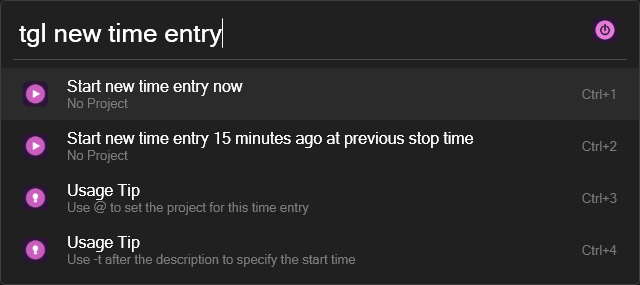
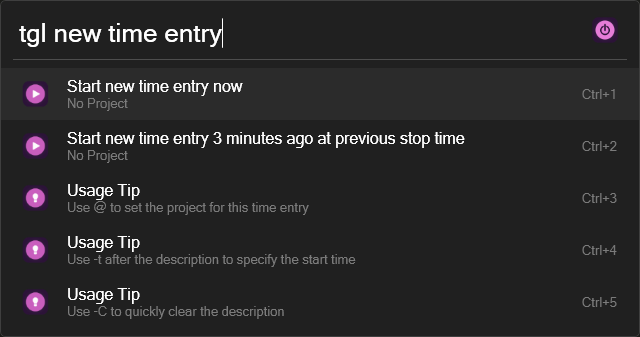
docs(readme): :memo: document `-C` for `start` and `continue` (#97)

diff --git a/README.md b/README.md
@@ -83,9 +83,10 @@ A performant [Toggl Track](https://track.toggl.com/timer) plugin for [Flow Launc
 # Command Reference
 
 > **Note**  
-> This command reference applies to version `v4.0.0-0`.  
+> This command reference applies to version `v4.0.0-1`.  
 
 **Older Versions**:
+- [`v4.0.0-0`](https://github.com/JamesNZL/flow-toggl-plugin/tree/5d54beec1ad4917c2d7f4cae14d23a4fecb6176d#command-reference)
 - [`v3.0.1`](https://github.com/JamesNZL/flow-toggl-plugin/tree/9be3a06727104b3bed38e8011e9e4a8073eec0e0#command-reference)
 - [`v3.0.0`](https://github.com/JamesNZL/flow-toggl-plugin/tree/25611682dd63d0eef2a2e337f94309eca00cb0a4#command-reference) (created command reference)
 
@@ -185,9 +186,10 @@ When followed by anything other than a command name, the list of results will co
 | ------------------------ | ------ | ------------------------------------ | -------------------- |
 | Project Selection Prefix | `@`    | Set a project for the new time entry | `@flow-toggl-plugin` |
 
-| Name      | Flag | Description                                                               | Example          |
-| --------- | ---- | ------------------------------------------------------------------------- | ---------------- |
-| Time Span | `-t` | Offset the starting time of the new time entry with a specified time span | `-t -30 seconds` |
+| Name              | Flag | Description                                                               | Example          |
+| ----------------- | ---- | ------------------------------------------------------------------------- | ---------------- |
+| Time Span         | `-t` | Offset the starting time of the new time entry with a specified time span | `-t -30 seconds` |
+| Clear Description | `-C` | Empty the time entry description from the Flow search bar                 | `-C`             |
 
 | Name                               | Key Modifier | Description                                                                   | Example                                           |
 | ---------------------------------- | ------------ | ----------------------------------------------------------------------------- | ------------------------------------------------- |
